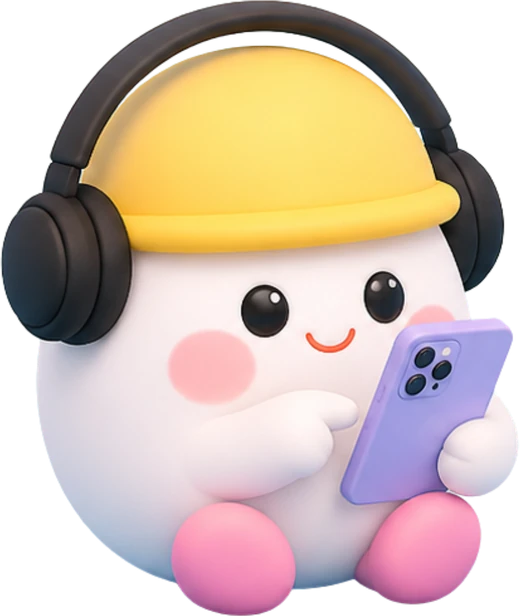
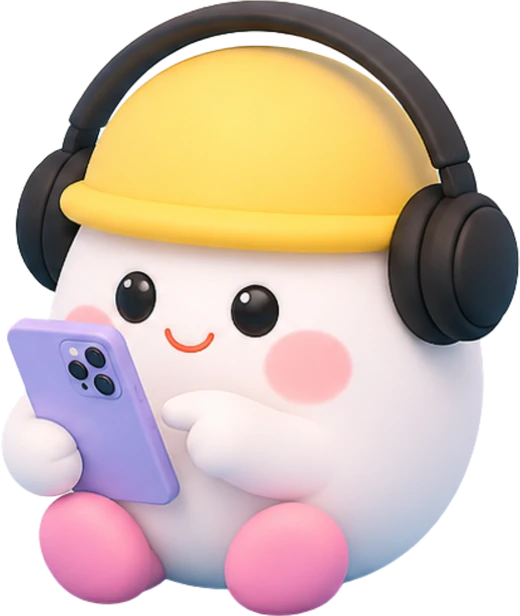
Update design, pickleball and phone mascots
Claude-Session: https://claude.ai/code/session_01HVkNmSTj6o135QdA3DqvRt

diff --git a/design.html b/design.html
@@ -16,7 +16,7 @@
       document.documentElement.setAttribute('data-theme', t);
     })();
   </script>
-  <link rel="stylesheet" href="style.css?v=18">
+  <link rel="stylesheet" href="style.css?v=19">
 </head>
 <body>
   <a class="skip" href="#main">Skip to main content</a>
@@ -40,7 +40,7 @@
         <p class="tagline">Look around. Sketch it. <span class="hl">Then build.</span></p>
         <p class="lede">Anyone can vibecode an app, so design and user experience (UX) are what set yours apart. Skip them and you get <a href="https://simonwillison.net/2024/May/8/slop/" target="_blank" rel="noopener">AI slop<span class="sr-only"> (opens in a new tab)</span></a> or, worse, a <a href="https://tech.co/news/what-is-slop-grenade" target="_blank" rel="noopener">slop grenade<span class="sr-only"> (opens in a new tab)</span></a>.</p>
       </div>
-      <img class="hero-art md" src="images/mascot-design.webp" alt="" width="720" height="685">
+      <img class="hero-art md" src="images/mascot-design.webp?v=3" alt="" width="720" height="540">
     </section>
 
     <section aria-labelledby="slop-h">
@@ -182,6 +182,6 @@
   <footer>
     <div class="wrap">made with aloha</div>
   </footer>
-  <script src="app.js?v=18"></script>
+  <script src="app.js?v=19"></script>
 </body>
 </html>

diff --git a/diy.html b/diy.html
@@ -16,7 +16,7 @@
       document.documentElement.setAttribute('data-theme', t);
     })();
   </script>
-  <link rel="stylesheet" href="style.css?v=18">
+  <link rel="stylesheet" href="style.css?v=19">
 </head>
 <body>
   <a class="skip" href="#main">Skip to main content</a>
@@ -39,7 +39,7 @@
         <h1 id="h1">Vibecode your <span class="hl">first webpage</span></h1>
         <p class="lede">By the end you will have a real webpage with its own link that anyone can open. It costs nothing and takes about 20 minutes.</p>
       </div>
-      <img class="hero-art sm" src="images/mascot-pickleball.webp" alt="" width="520" height="399">
+      <img class="hero-art sm" src="images/mascot-pickleball.webp?v=3" alt="" width="560" height="473">
     </section>
 
     <section aria-labelledby="need-h">
@@ -272,6 +272,6 @@
   <footer>
     <div class="wrap">made with aloha</div>
   </footer>
-  <script src="app.js?v=18"></script>
+  <script src="app.js?v=19"></script>
 </body>
 </html>

diff --git a/tools.html b/tools.html
@@ -16,7 +16,7 @@
       document.documentElement.setAttribute('data-theme', t);
     })();
   </script>
-  <link rel="stylesheet" href="style.css?v=18">
+  <link rel="stylesheet" href="style.css?v=19">
 </head>
 <body>
   <a class="skip" href="#main">Skip to main content</a>
@@ -39,7 +39,7 @@
         <h1 id="h1"><span class="hl">Tools</span></h1>
         <p class="lede">Two ways to vibecode: tools made for building apps, and the everyday AI chatbots that can write code too.</p>
       </div>
-      <img class="hero-art sm" src="images/mascot-phone.webp?v=2" alt="" width="520" height="616">
+      <img class="hero-art sm" src="images/mascot-phone.webp?v=3" alt="" width="520" height="616">
     </section>
 
     <section aria-labelledby="tools-h">
@@ -124,6 +124,6 @@
   <footer>
     <div class="wrap">made with aloha</div>
   </footer>
-  <script src="app.js?v=18"></script>
+  <script src="app.js?v=19"></script>
 </body>
 </html>

diff --git a/index.html b/index.html
@@ -16,7 +16,7 @@
       document.documentElement.setAttribute('data-theme', t);
     })();
   </script>
-  <link rel="stylesheet" href="style.css?v=18">
+  <link rel="stylesheet" href="style.css?v=19">
 </head>
 <body>
   <a class="skip" href="#main">Skip to main content</a>
@@ -137,6 +137,6 @@
   <footer>
     <div class="wrap">made with aloha</div>
   </footer>
-  <script src="app.js?v=18"></script>
+  <script src="app.js?v=19"></script>
 </body>
 </html>

diff --git a/tips.html b/tips.html
@@ -16,7 +16,7 @@
       document.documentElement.setAttribute('data-theme', t);
     })();
   </script>
-  <link rel="stylesheet" href="style.css?v=18">
+  <link rel="stylesheet" href="style.css?v=19">
 </head>
 <body>
   <a class="skip" href="#main">Skip to main content</a>
@@ -100,6 +100,6 @@
   <footer>
     <div class="wrap">made with aloha</div>
   </footer>
-  <script src="app.js?v=18"></script>
+  <script src="app.js?v=19"></script>
 </body>
 </html>
